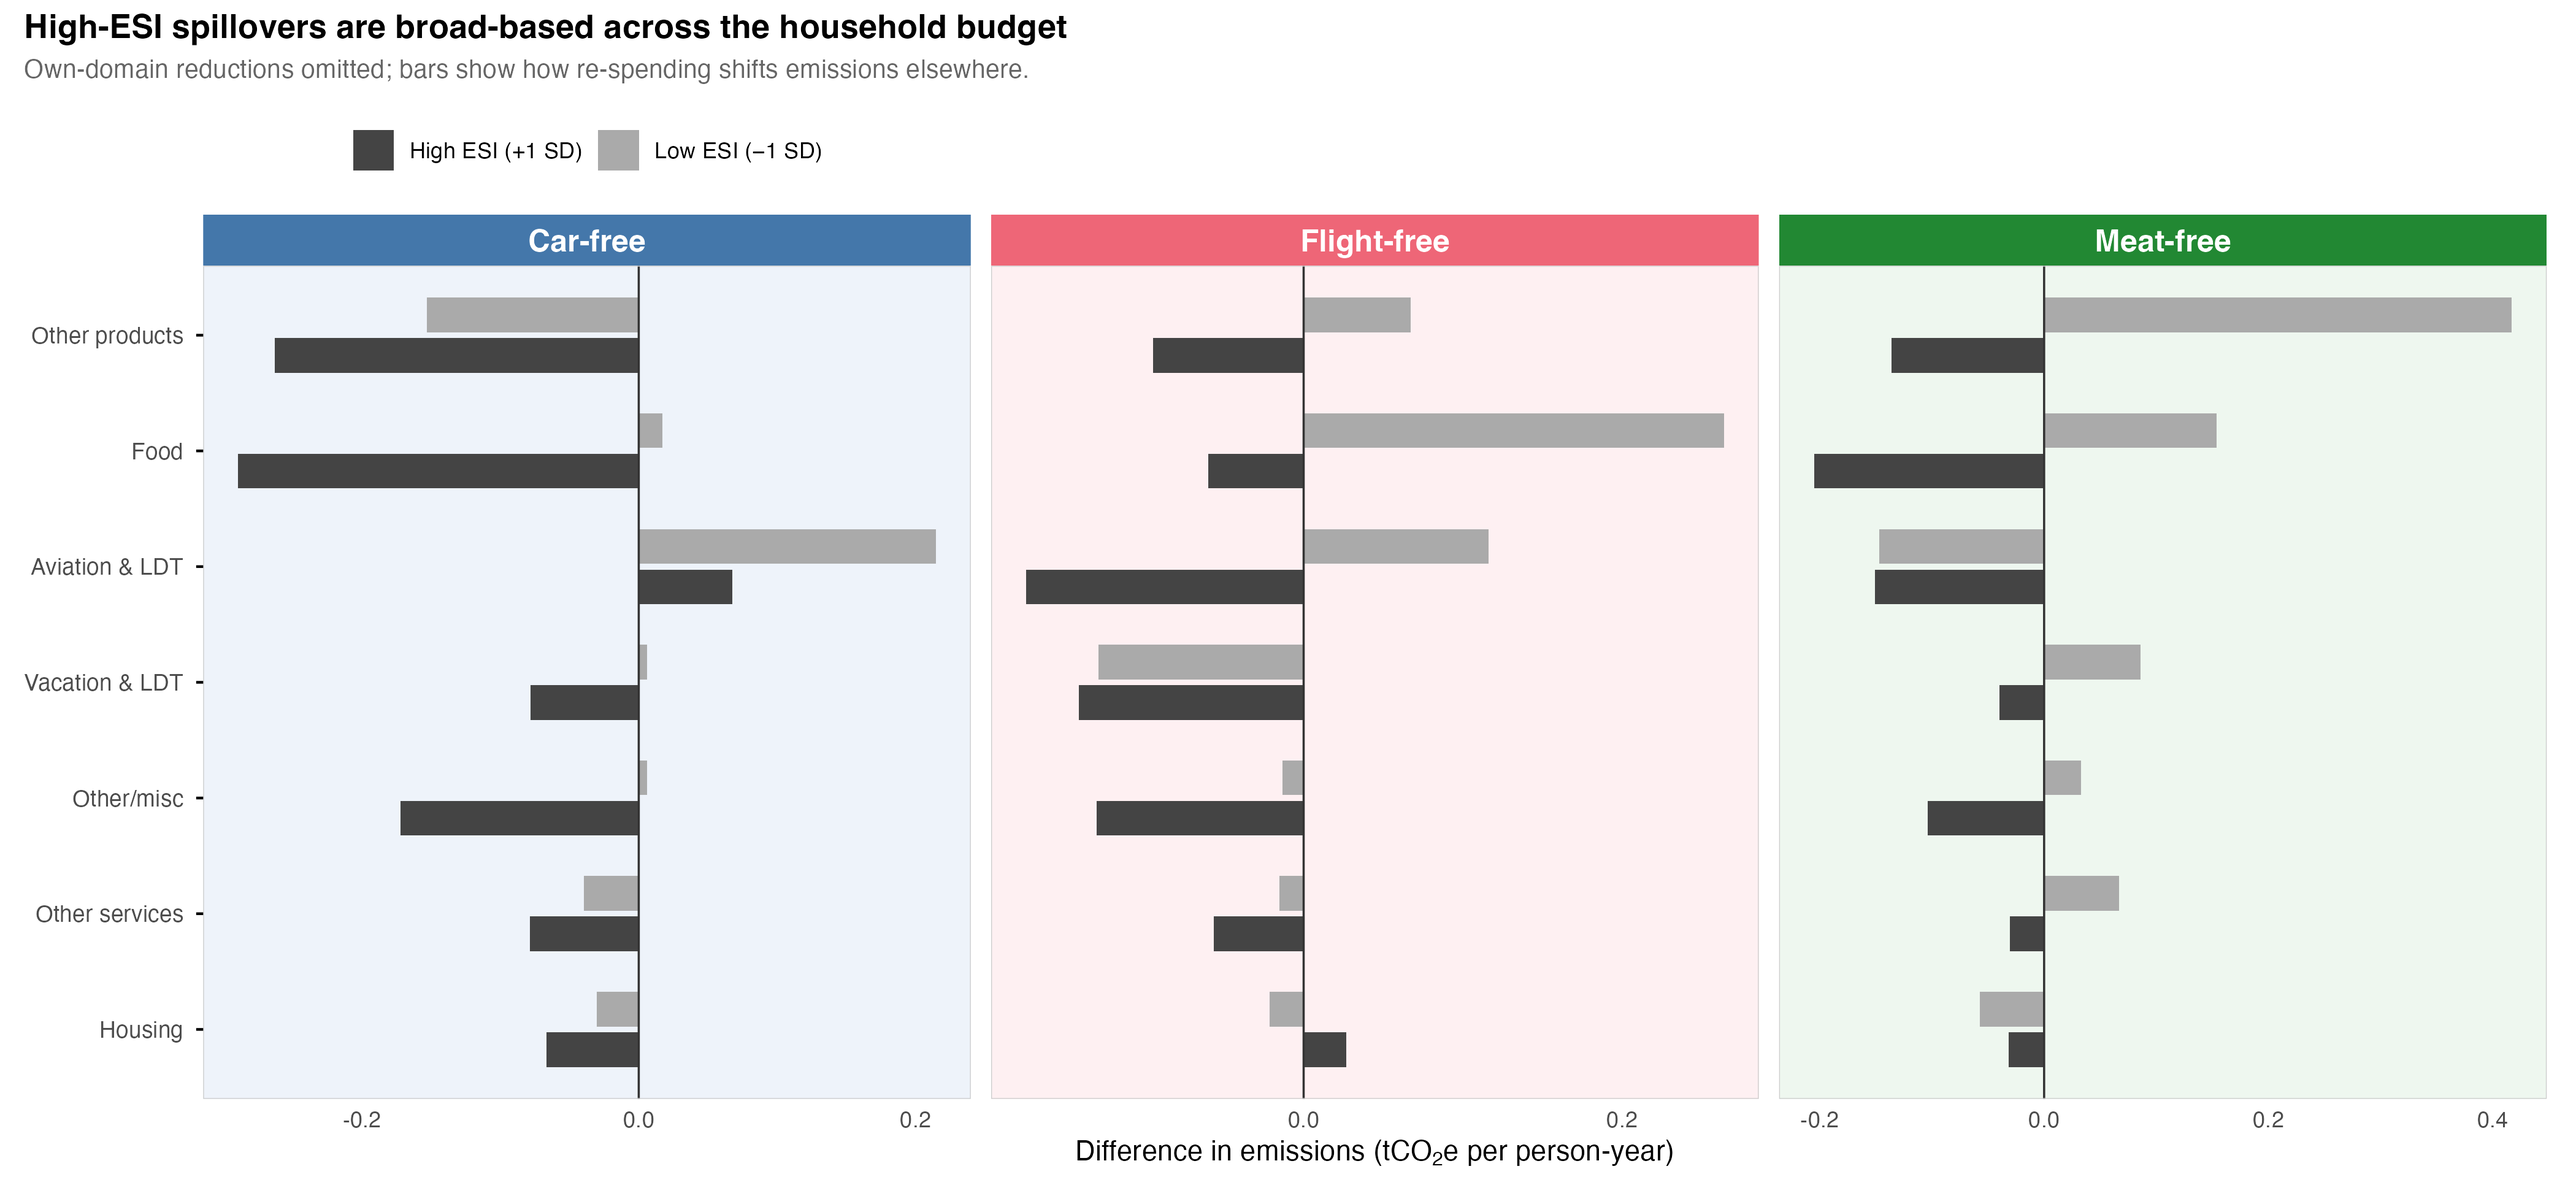
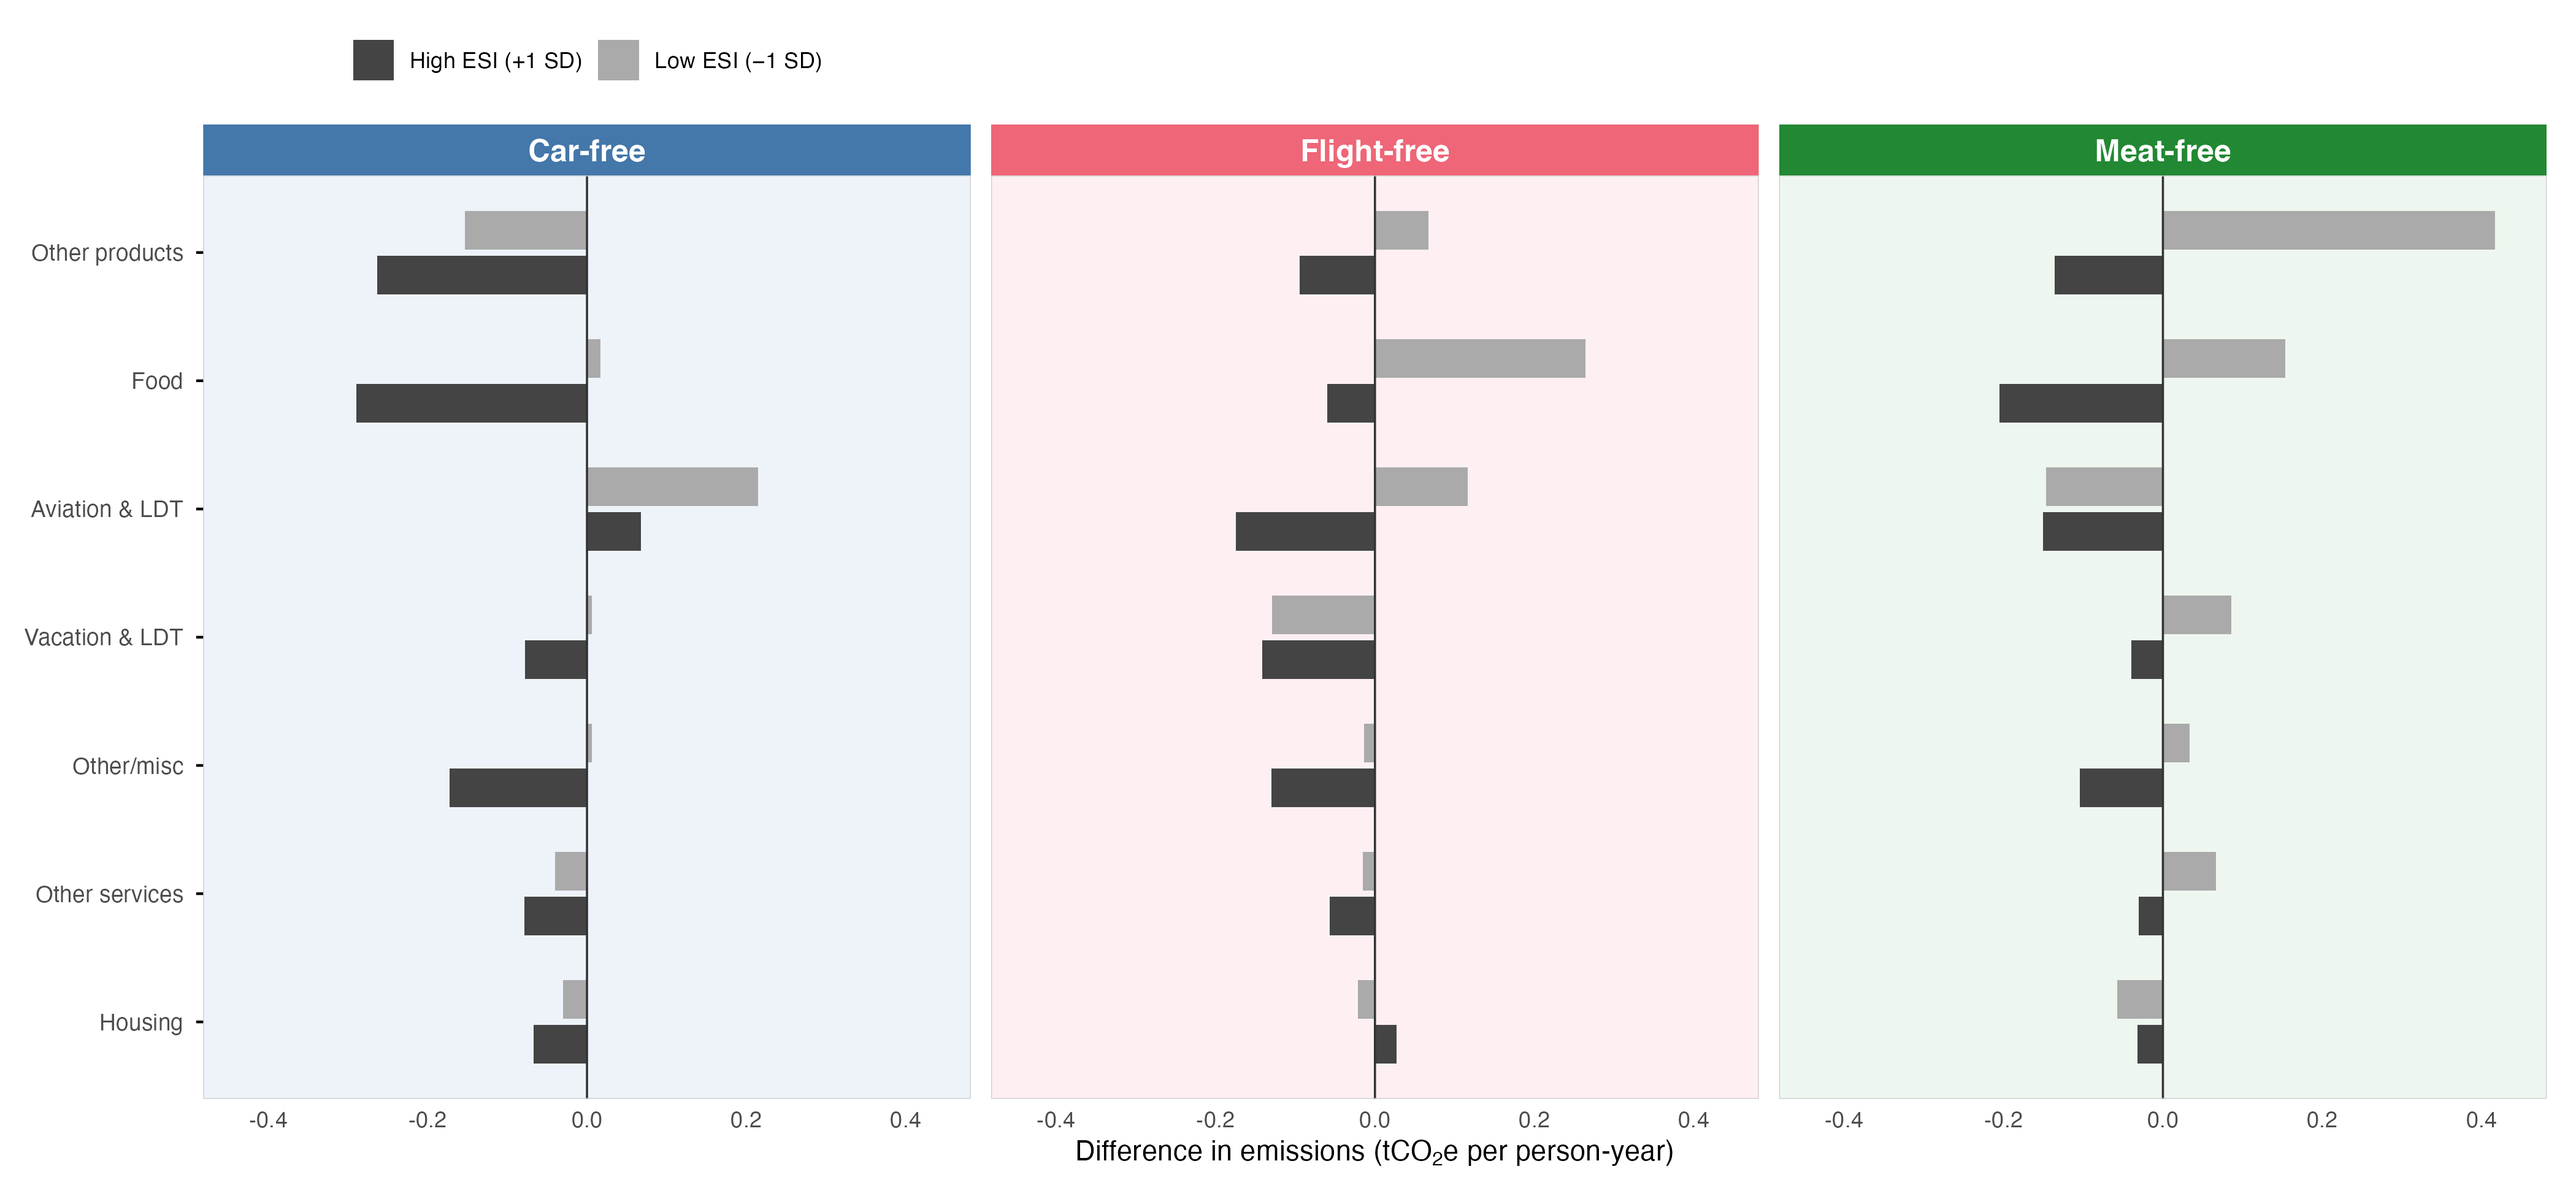
Fix category figure: remove in-figure title, shared x-axis, update caption
- Remove plot_annotation title/subtitle (competed with LaTeX caption heading)
- Shared x-axis scale across all three panels (auto-computed from data)
- Caption: add observation about Low-ESI rebounds in other focal domains

diff --git a/main/main.tex b/main/main.tex
@@ -81,8 +81,8 @@ Category-level decomposition of spending shows that high-ESI reductions are broa
 \begin{figure}[htbp]
 \centering
 \includegraphics[width=\textwidth]{../results/category_decomposition_esi.png}
-\caption{\textbf{High-ESI spillovers are broad-based across the household budget.}
-Regression-adjusted emission differences at high ESI ($+1$~SD; dark bars) and low ESI ($-1$~SD; light bars) for each broad consumption category, relative to an ESI~$= 0$ non-adopter reference. Bars extending left of zero indicate an indirect emission reduction in that category; bars extending right indicate an indirect increase. Own-domain categories (car and public transport for car-free, aviation for flight-free, food for meat-free) are excluded so the figure reflects re-spending patterns across the rest of the budget. For high-ESI adopters (dark bars), reductions are distributed broadly and coherently across most categories; for low-ESI adopters (light bars), patterns are more mixed, with some categories showing small increases. Panels correspond to Car-free (blue), Flight-free (coral), and Meat-free (green) lifestyle contrasts. Models as in Fig.~\ref{fig_main}.}
+\caption{\textbf{High-ESI spillovers are broad-based; low-ESI adopters show rebounds in other focal domains.}
+Regression-adjusted emission differences at high ESI ($+1$~SD; dark bars) and low ESI ($-1$~SD; light bars) for each broad consumption category, relative to an ESI~$= 0$ non-adopter reference; all panels share the same x-axis scale. Bars extending left of zero indicate an emission reduction in that category; bars extending right indicate an increase. Own-domain categories (car and public transport for car-free, aviation for flight-free, food for meat-free) are excluded so the figure reflects re-spending patterns across the rest of the budget. For high-ESI adopters (dark bars), reductions are distributed broadly and coherently across most categories. For low-ESI adopters (light bars), patterns are more mixed and notably include positive bars in other focal domains: car-free low-ESI households show elevated aviation and food emissions, and flight-free low-ESI households show elevated food emissions—consistent with substitution toward the other high-carbon domains that high-ESI adopters appear to restrain. Panels correspond to Car-free (blue), Flight-free (coral), and Meat-free (green) lifestyle contrasts. Models as in Fig.~\ref{fig_main}.}
 \label{fig_category}
 \end{figure}
 
